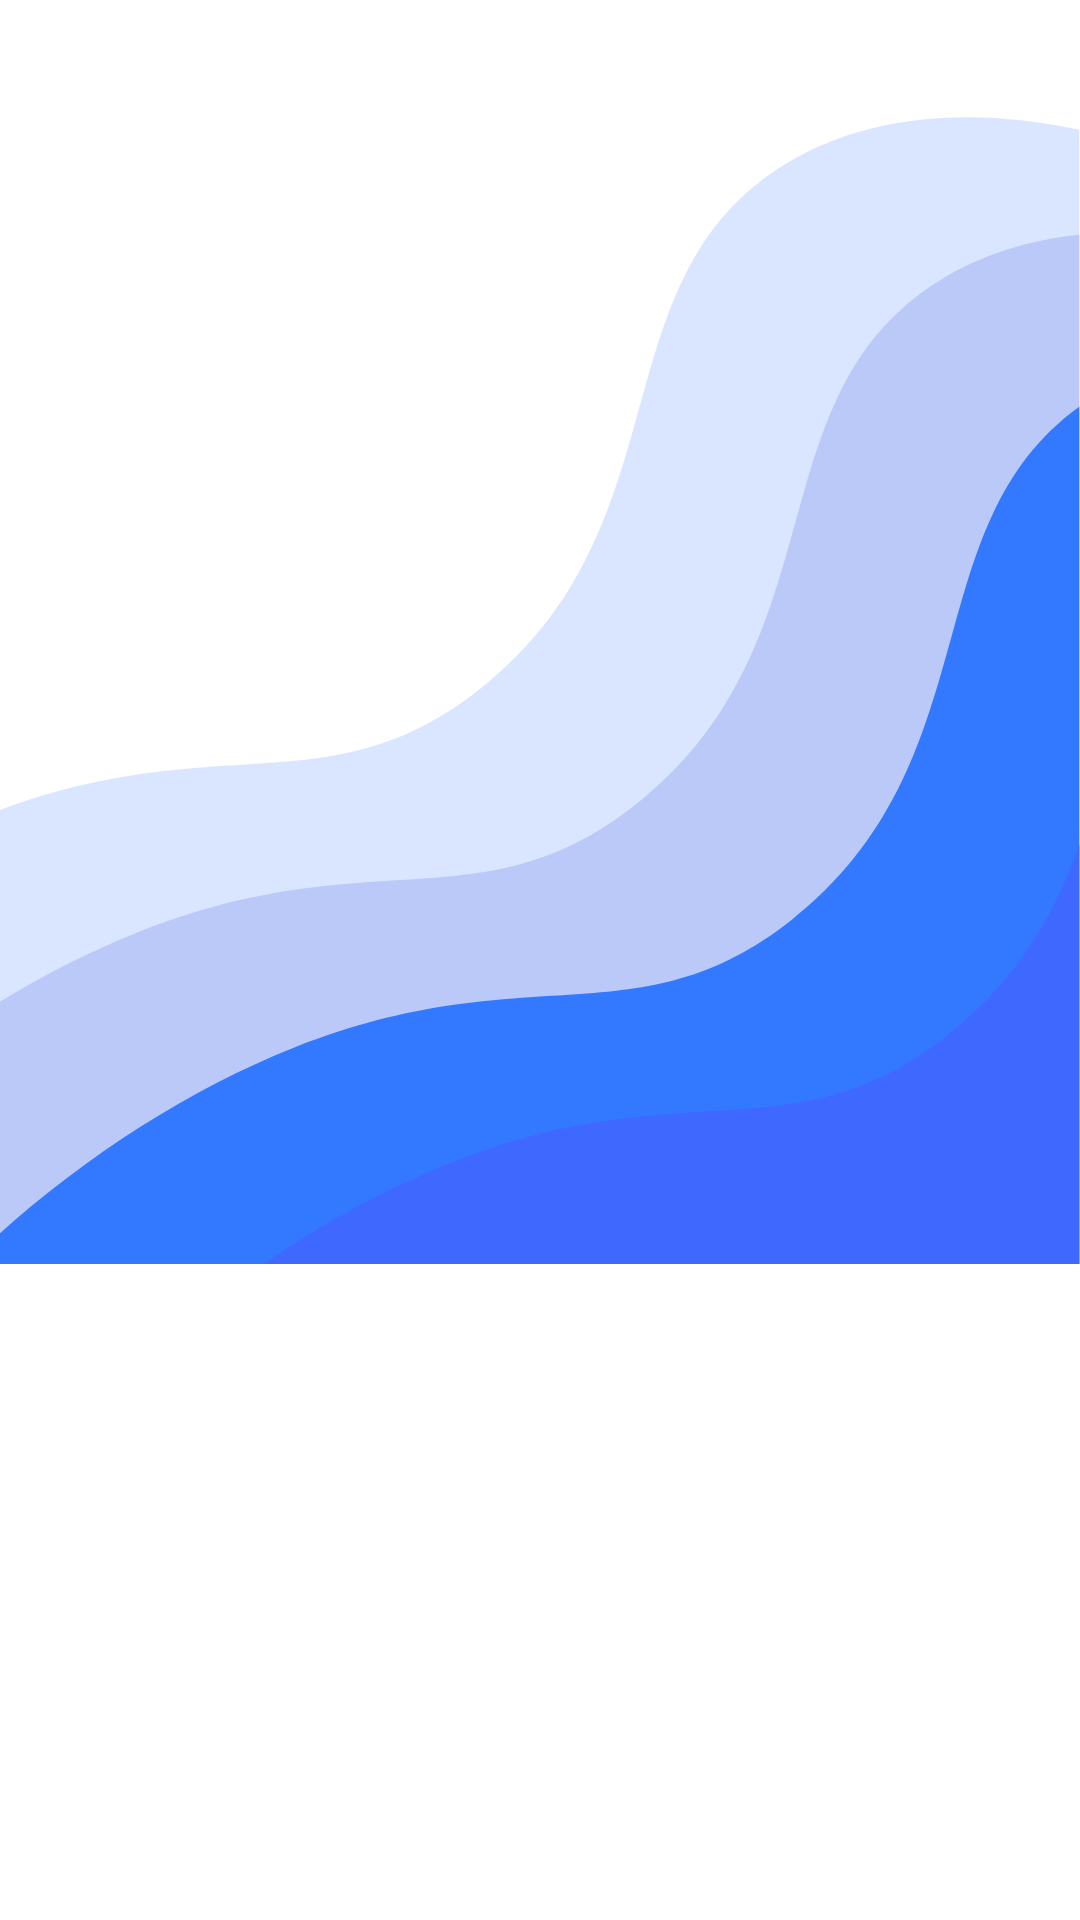
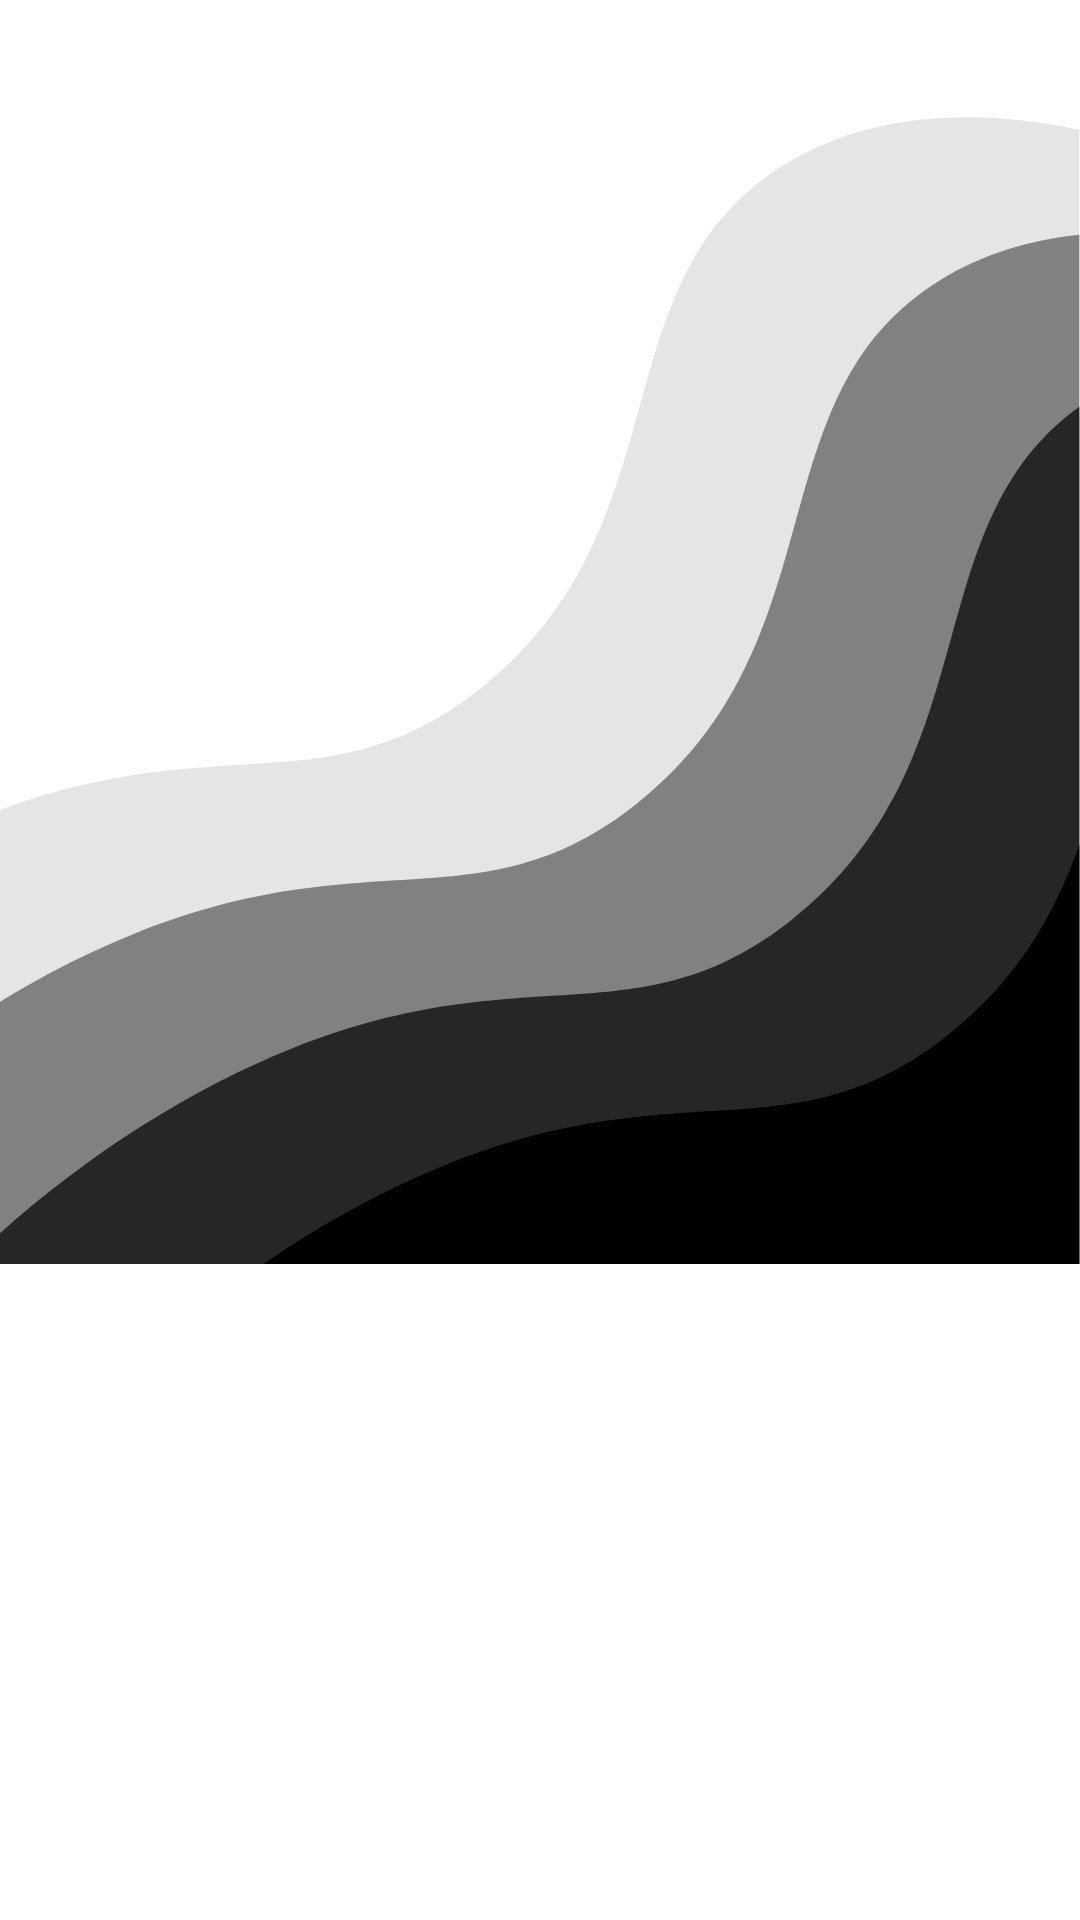
Vista Contact y Footer

diff --git a/resources/views/about/index.blade.php b/resources/views/about/index.blade.php
@@ -4,7 +4,7 @@
         <div class="relative isolate px-6 pt-14 lg:px-8">
             <div class="absolute inset-x-0 -top-40 -z-10 transform-gpu overflow-hidden blur-3xl sm:-top-80"
                 aria-hidden="true">
-                <div class="relative left-[calc(50%-11rem)] aspect-[1155/678] w-[36.125rem] -translate-x-1/2 rotate-[30deg] bg-gradient-to-tr from-[#0051ff] to-[#bb94b7] opacity-30 sm:left-[calc(50%-30rem)] sm:w-[72.1875rem]"
+                <div class="relative left-[calc(50%-11rem)] aspect-[1155/678] w-[36.125rem] -translate-x-1/2 rotate-[30deg] bg-gradient-to-tr from-[#2a2a2a] to-[#000000] opacity-30 sm:left-[calc(50%-30rem)] sm:w-[72.1875rem]"
                     style="clip-path: polygon(74.1% 44.1%, 100% 61.6%, 97.5% 26.9%, 85.5% 0.1%, 80.7% 2%, 72.5% 32.5%, 60.2% 62.4%, 52.4% 68.1%, 47.5% 58.3%, 45.2% 34.5%, 27.5% 76.7%, 0.1% 64.9%, 17.9% 100%, 27.6% 76.8%, 76.1% 97.7%, 74.1% 44.1%)">
                 </div>
             </div>
@@ -24,13 +24,13 @@
                         <div class="container mx-auto w-full h-full">
                             <div class="relative wrap overflow-hidden p-10 h-full">
                                 <div class="border-2-2 border-yellow-555 absolute h-full border"
-                                    style="right: 50%; border: 2px solid #1E3EA3; border-radius: 1%;"></div>
+                                    style="right: 50%; border: 2px solid #000000; border-radius: 1%;"></div>
                                 <div class="border-2-2 border-yellow-555 absolute h-full border"
-                                    style="left: 50%; border: 2px solid #1E3EA3; border-radius: 1%;"></div>
+                                    style="left: 50%; border: 2px solid #000000; border-radius: 1%;"></div>
                                 <div class="mb-8 flex justify-between flex-row-reverse items-center w-full left-timeline">
                                     <div class="order-1 w-5/12"></div>
                                     <div class="order-1 w-5/12 px-1 py-4 text-right">
-                                        <p class="mb-3 text-base text-blue-500">1-6 May, 2018</p>
+                                        <p class="mb-3 text-base text-black">1-6 May, 2018</p>
                                         <h4 class="mb-3 font-bold text-lg md:text-2xl">Apertura</h4>
                                         <p class="text-sm md:text-base leading-snug  text-black text-opacity-100">
                                             Pick your favourite event(s) and register in that event by filling the form
@@ -42,7 +42,7 @@
                                 <div class="mb-8 flex justify-between items-center w-full right-timeline">
                                     <div class="order-1 w-5/12"></div>
                                     <div class="order-1  w-5/12 px-1 py-4 text-left">
-                                        <p class="mb-3 text-base text-blue-500">6-9 May, 2021</p>
+                                        <p class="mb-3 text-base text-black">6-9 May, 2021</p>
                                         <h4 class="mb-3 font-bold text-lg md:text-2xl">Inicio de expansion</h4>
                                         <p class="text-sm md:text-base leading-snug  text-black text-opacity-100">
                                             Participate online. The links for your registered events will be sent to you via
@@ -54,7 +54,7 @@
                                 <div class="mb-8 flex justify-between flex-row-reverse items-center w-full left-timeline">
                                     <div class="order-1 w-5/12"></div>
                                     <div class="order-1 w-5/12 px-1 py-4 text-right">
-                                        <p class="mb-3 text-base text-blue-500"> 10 May, 2021</p>
+                                        <p class="mb-3 text-base text-black"> 10 May, 2021</p>
                                         <h4 class="mb-3 font-bold text-lg md:text-2xl">Adquisision de nuevas herramientas
                                         </h4>
                                         <p class="text-sm md:text-base leading-snug  text-black text-opacity-100">
@@ -70,7 +70,7 @@
                                     <div class="order-1 w-5/12"></div>
 
                                     <div class="order-1  w-5/12 px-1 py-4">
-                                        <p class="mb-3 text-base text-blue-500">12 May, 2021</p>
+                                        <p class="mb-3 text-base text-black">12 May, 2021</p>
                                         <h4 class="mb-3 font-bold  text-lg md:text-2xl text-left">Continua la expansion</h4>
                                         <p class="text-sm md:text-base leading-snug text-black text-opacity-100">
                                             The winners will be contacted by our team for their addresses and the winning
@@ -87,7 +87,7 @@
             </div>
             <div class="absolute inset-x-0 top-[calc(100%-13rem)] -z-10 transform-gpu overflow-hidden blur-3xl sm:top-[calc(100%-30rem)]"
                 aria-hidden="true">
-                <div class="relative left-[calc(50%+3rem)] aspect-[1155/678] w-[36.125rem] -translate-x-1/2 bg-gradient-to-tr from-[#004cff] to-[#0e0953] opacity-30 sm:left-[calc(50%+36rem)] sm:w-[72.1875rem]"
+                <div class="relative left-[calc(50%+3rem)] aspect-[1155/678] w-[36.125rem] -translate-x-1/2 bg-gradient-to-tr from-[#686868] to-[#0e0953] opacity-30 sm:left-[calc(50%+36rem)] sm:w-[72.1875rem]"
                     style="clip-path: polygon(74.1% 44.1%, 100% 61.6%, 97.5% 26.9%, 85.5% 0.1%, 80.7% 2%, 72.5% 32.5%, 60.2% 62.4%, 52.4% 68.1%, 47.5% 58.3%, 45.2% 34.5%, 27.5% 76.7%, 0.1% 64.9%, 17.9% 100%, 27.6% 76.8%, 76.1% 97.7%, 74.1% 44.1%)">
                 </div>
             </div>

diff --git a/resources/views/contact/index.blade.php b/resources/views/contact/index.blade.php
@@ -12,16 +12,16 @@
         {{-- Primer Row --}}
         <div class="col-span-3 mb-12">
             <h2
-                class="font-extrabold text-[#332E6C] flex mx-auto w-full text-4xl lg:text-6xl font-blinker uppercase mt-16 justify-center">
+                class="font-extrabold text-[#000000] flex mx-auto w-full text-4xl lg:text-6xl font-blinker uppercase mt-16 justify-center">
                 Pagina de <span class="text-white ml-3">Contacto</span>
             </h2>
         </div>
 
         {{-- Segundo Row --}}
         <div class="col-span-3 grid grid-cols-6 -translate-y-32">
-            <div class="col-span-4 top-8 mx-auto z-10 bg-blue-800/70 rounded-3xl h-full translate-x-3 translate-y-3">
+            <div class="col-span-4 top-8 mx-auto z-10 bg-gray-800/70 rounded-3xl h-full translate-x-2 translate-y-2">
                 <div id="map"
-                    class="flex flex-col justify-center rounded-xl bg-white shadow-xl -translate-x-3 -translate-y-3 h-full group transition ease-in-out 300">
+                    class="flex flex-col justify-center rounded-xl bg-white shadow-xl -translate-x-2 -translate-y-2 h-full group transition ease-in-out 300">
                 </div>
             </div>
 
@@ -68,7 +68,7 @@
                             </div>
                         </div>
                         <button type="submit"
-                            class="text-white bg-blue-700 hover:bg-blue-800 focus:ring-4 focus:ring-blue-300 font-medium rounded-lg text-sm w-full sm:w-auto px-5 py-2.5 text-center dark:bg-blue-600 dark:hover:bg-blue-700 dark:focus:ring-blue-800">Submit</button>
+                            class="hover:text-white transition bg-white text-black hover:bg-blue-800 font-medium rounded-lg text-sm w-full sm:w-auto px-5 py-2.5 text-center">Enviar</button>
                     </form>
                 </div>
             </div>
@@ -109,7 +109,7 @@
                     </div>
                 </div>
                 <div class="col-span-1 ml-8">
-                    <h2 class="text-2xl text-white font-bold mb-4">¡¡Siguenos en nuestras redes!!</h2>
+                    <h2 class="text-2xl text-white font-josefin font-bold mb-4">¡¡Siguenos en nuestras redes!!</h2>
                     <ul class="flex">
 
                         {{-- Whatsapp --}}
@@ -261,10 +261,10 @@
             <div>
                 <div class="grid grid-cols-2 h-screen">
                     <div class="bg-cover bg-[url(/public/img/contact.png)]">
-                        <div class="backdrop-blur-xl h-full">
+                        <div class="backdrop-blur-3xl h-full">
                         </div>
                     </div>
-                    <div class="bg-[#3E68FF] flex flex-col justify-center items-center">
+                    <div class="bg-[#000000] flex flex-col justify-center items-center">
                     </div>
                 </div>
             </div>

diff --git a/resources/views/home/index.blade.php b/resources/views/home/index.blade.php
@@ -2,7 +2,7 @@
 @section('content')
     <div class="static justify-center bg-white w-full">
         <div class="grid grid-cols-1 lg:grid-cols-3 gap-6 grid-row-2">
-            <div class="col-span-3 mx-6 bg-[#3E68FF] h-full rounded-b-3xl">
+            <div class="col-span-3 mx-6 bg-blue-600 h-full rounded-b-3xl">
                 <div class="grid grid-cols-1 lg:grid-cols-3 justify-between gap-6">
                     <div class="justify-start p-20 mt-6 ml-2">
                         <div>
@@ -87,7 +87,7 @@
             </div>
 
             <div class="mx-auto lg:col-span-2 lg:mx-6 bg-center bg-cover bg-[url(/public/img/new.png)] h-full rounded-3xl text-white font-extrabold">
-                <div class="backdrop-blur-lg rounded-3xl">
+                <div class="backdrop-blur-2xl rounded-3xl">
                     <div class="grid grid-cols-2">
                         <div class="flex mt-5 ml-6 lg:ml-16 justify-start">
                             <p class="text-3xl p-6 mr-6 text-white">

diff --git a/resources/views/livewire/footer.blade.php b/resources/views/livewire/footer.blade.php
@@ -1,6 +1,6 @@
 <!-- component -->
 
-<footer class="bg-gray-900">
+<footer class="bg-[#000000]">
     <div class="max-w-screen-xl px-4 py-4 mx-auto sm:px-6 lg:px-8">
         <div class="max-w-screen-xl px-4 py-8 mx-auto sm:px-6 lg:px-8">
             <div class="grid grid-cols-1 gap-8 lg:grid-cols-4">
